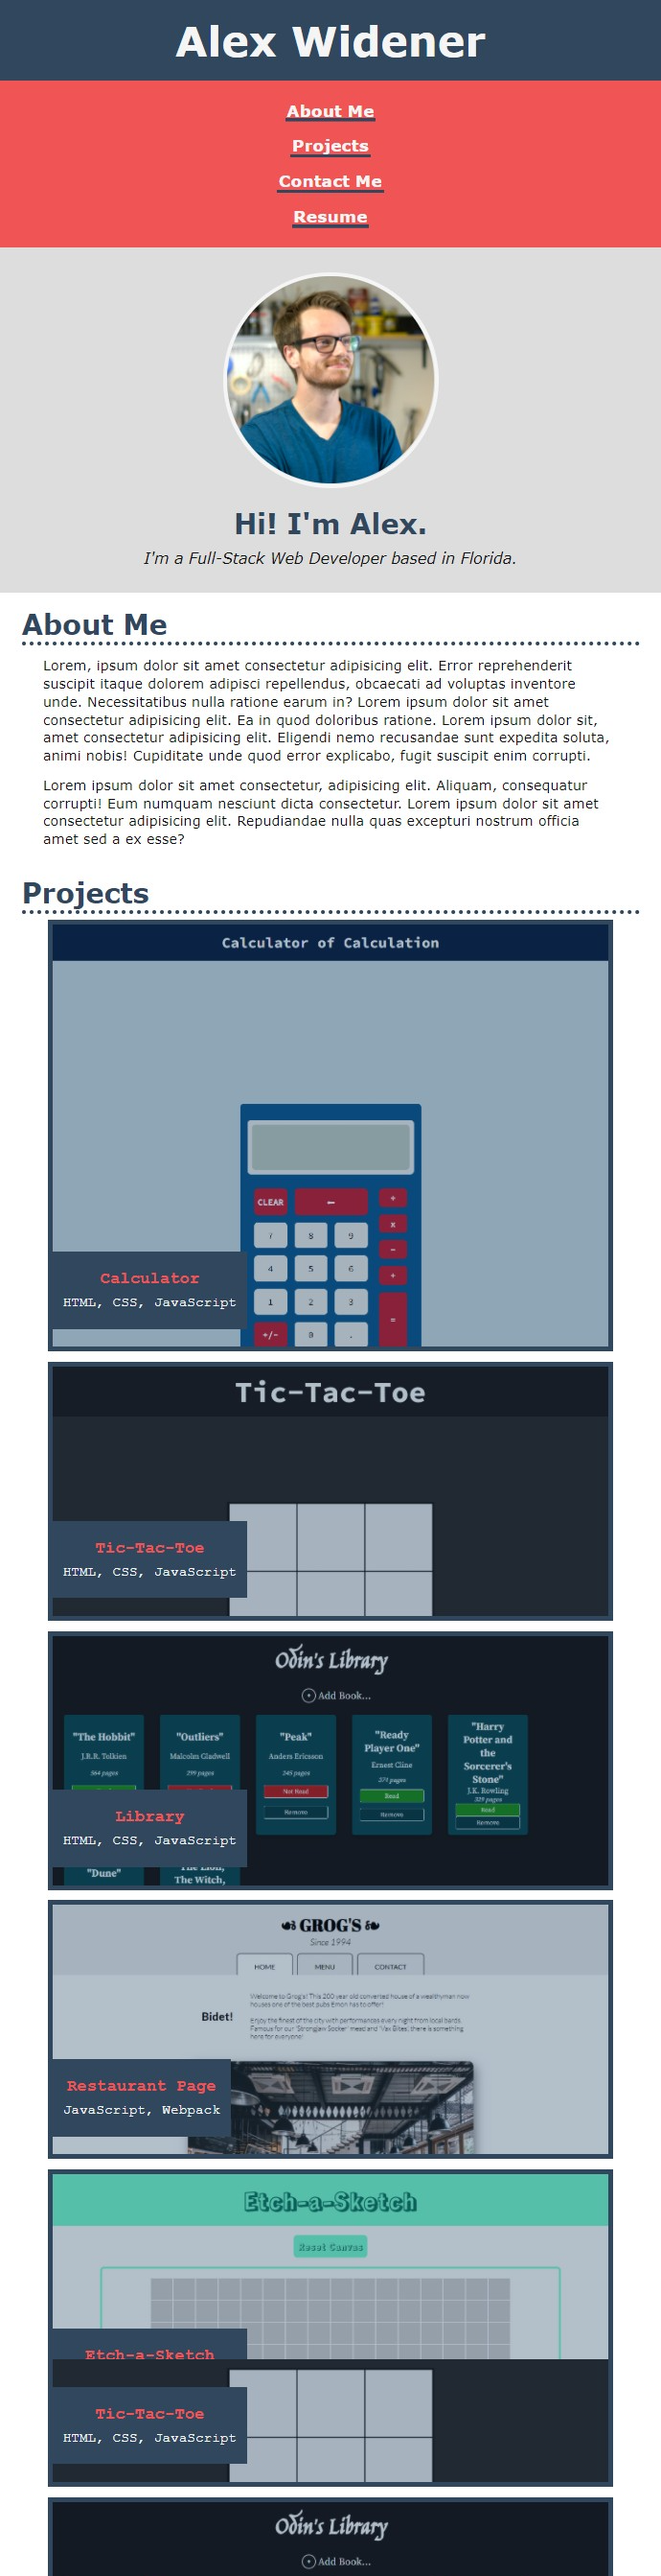
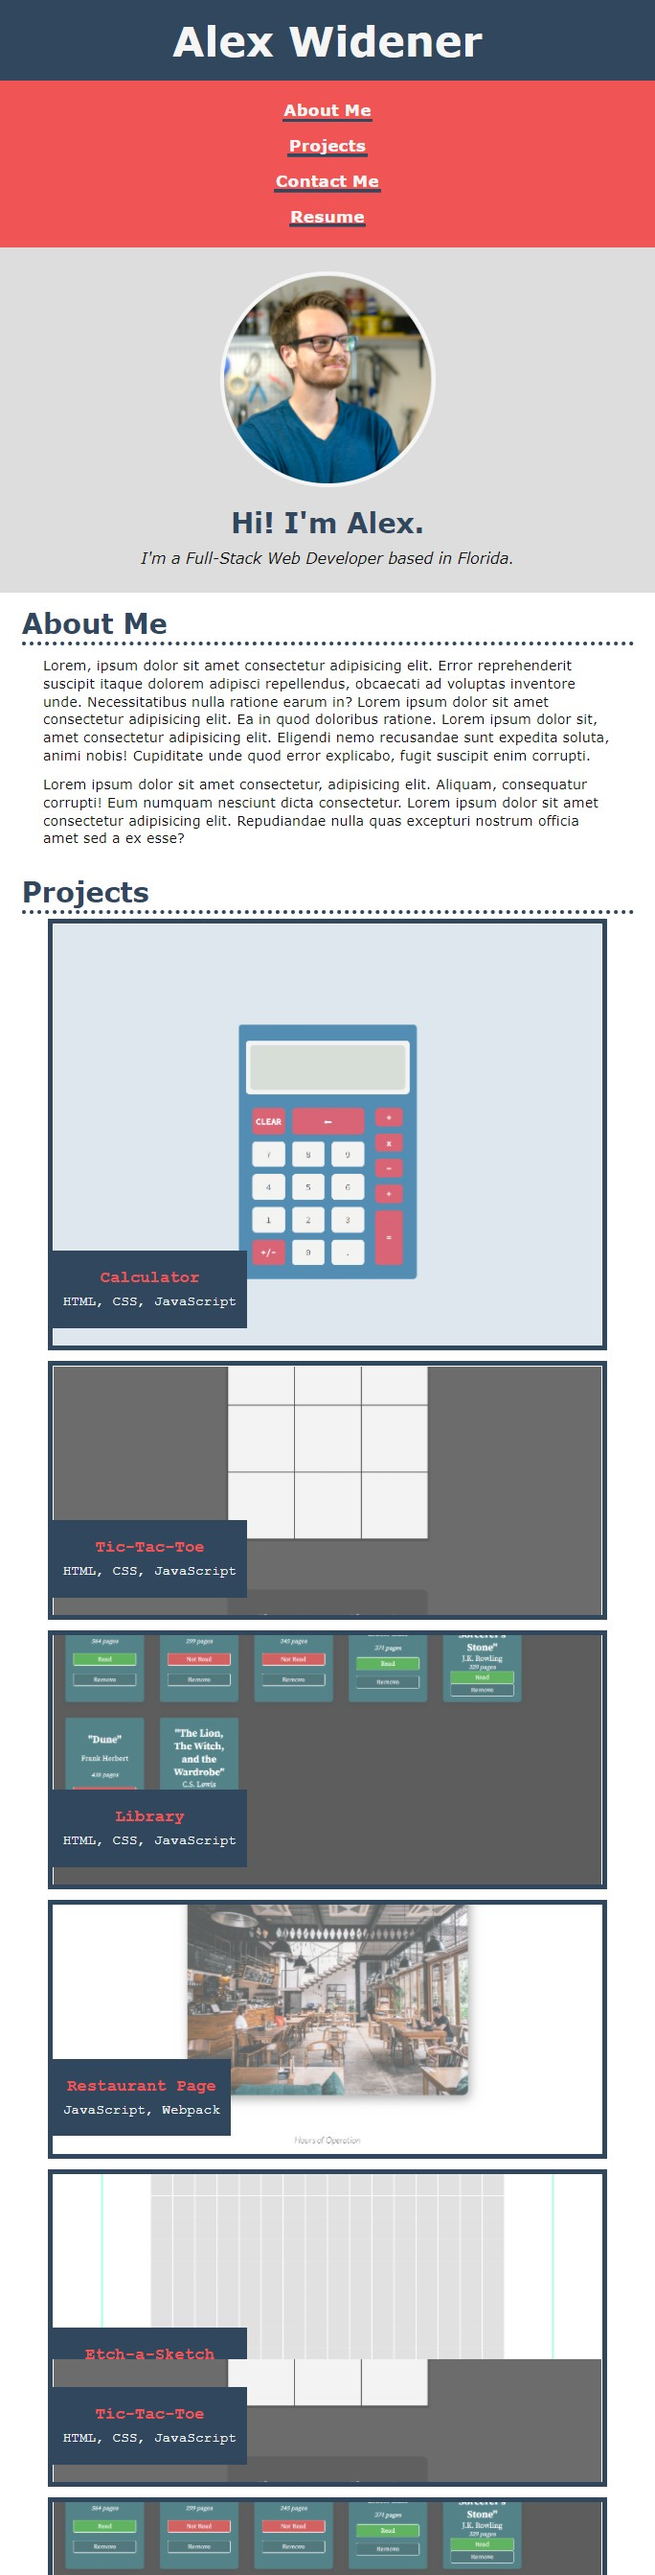
fixed links on images

diff --git a/index.html b/index.html
@@ -1,5 +1,6 @@
 <!DOCTYPE html>
 <html lang="en">
+
 <head>
     <meta charset="UTF-8">
     <meta http-equiv="X-UA-Compatible" content="IE=edge">
@@ -7,6 +8,10 @@
     <link rel="stylesheet" href="https://cdnjs.cloudflare.com/ajax/libs/font-awesome/4.7.0/css/font-awesome.min.css">
     <link rel="stylesheet" href="./assets/css/reset.css">
     <link rel="stylesheet" href="./assets/css/style.css">
+    <link rel="apple-touch-icon" sizes="180x180" href="./assets/favicon/apple-touch-icon.png">
+    <link rel="icon" type="image/png" sizes="32x32" href="./assets/favicon/favicon-32x32.png">
+    <link rel="icon" type="image/png" sizes="16x16" href="./assets/favicon/favicon-16x16.png">
+    <link rel="manifest" href="/site.webmanifest">
     <title>Alex Widener Portfolio</title>
 </head>
 
@@ -42,75 +47,110 @@
         <section id="about-me" class="section">
             <h2 class="section-title">About Me</h2>
             <div class="section-content">
-                <p>Lorem, ipsum dolor sit amet consectetur adipisicing elit. Error reprehenderit suscipit itaque dolorem adipisci repellendus, obcaecati ad voluptas inventore unde. Necessitatibus nulla ratione earum in? Lorem ipsum dolor sit amet consectetur adipisicing elit. Ea in quod doloribus ratione. Lorem ipsum dolor sit, amet consectetur adipisicing elit. Eligendi nemo recusandae sunt expedita soluta, animi nobis! Cupiditate unde quod error explicabo, fugit suscipit enim corrupti.</p>
-                <p>Lorem ipsum dolor sit amet consectetur, adipisicing elit. Aliquam, consequatur corrupti! Eum numquam nesciunt dicta consectetur. Lorem ipsum dolor sit amet consectetur adipisicing elit. Repudiandae nulla quas excepturi nostrum officia amet sed a ex esse?</p>
+                <p>Lorem, ipsum dolor sit amet consectetur adipisicing elit. Error reprehenderit suscipit itaque dolorem
+                    adipisci repellendus, obcaecati ad voluptas inventore unde. Necessitatibus nulla ratione earum in?
+                    Lorem ipsum dolor sit amet consectetur adipisicing elit. Ea in quod doloribus ratione. Lorem ipsum
+                    dolor sit, amet consectetur adipisicing elit. Eligendi nemo recusandae sunt expedita soluta, animi
+                    nobis! Cupiditate unde quod error explicabo, fugit suscipit enim corrupti.</p>
+                <p>Lorem ipsum dolor sit amet consectetur, adipisicing elit. Aliquam, consequatur corrupti! Eum numquam
+                    nesciunt dicta consectetur. Lorem ipsum dolor sit amet consectetur adipisicing elit. Repudiandae
+                    nulla quas excepturi nostrum officia amet sed a ex esse?</p>
             </div>
 
         </section>
-        
+
         <!-- PROJECTS -->
         <section id="projects" class="section">
             <h2 class="section-title">Projects</h2>
 
             <div class="section-content">
 
-                    <div id="calculator" class="card-large">
-                        <!-- <img class="card-image" src="/assets/images/calculator-preview.png" alt="a preview of a calculator project"> -->
-                        <div class="card-content">
-                            <h3 class="card-title"><a href="https://awidener3.github.io/basic-calculator/" target="_blank" rel="noopener noreferrer">Calculator</a></h3>
-                            <p class="card-subtitle">HTML, CSS, JavaScript</p>
-                        </div>
+                <div id="calculator" class="card-large">
+                    <a href="https://awidener3.github.io/basic-calculator/" target="_blank" rel="noopener noreferrer">
+                        <img class="card-image" src="/assets/images/calculator-preview.png"
+                            alt="a preview of a calculator project">
+                    </a>
+                    <div class="card-content">
+                        <h3 class="card-title"><a href="https://awidener3.github.io/basic-calculator/" target="_blank"
+                                rel="noopener noreferrer">Calculator</a></h3>
+                        <p class="card-subtitle">HTML, CSS, JavaScript</p>
                     </div>
+                </div>
 
                 <div id="tic-tac-toe" class="card-small">
+                    <a href="https://awidener3.github.io/tic-tac-toe/" target="_blank" rel="noopener noreferrer">
+                        <img class="card-image" src="/assets/images/tic-tac-toe-preview.png"
+                            alt="a preview of a tic-tac-toe project">
+                    </a>
                     <div class="card-content">
-                        <h3 class="card-title"><a href="https://awidener3.github.io/tic-tac-toe/" target="_blank" rel="noopener noreferrer">Tic-Tac-Toe</a></h3>
+                        <h3 class="card-title"><a href="https://awidener3.github.io/tic-tac-toe/" target="_blank"
+                                rel="noopener noreferrer">Tic-Tac-Toe</a></h3>
                         <p class="card-subtitle">HTML, CSS, JavaScript</p>
                     </div>
                 </div>
 
                 <div id="library" class="card-small">
+                    <a href="https://awidener3.github.io/odin-library/" target="_blank" rel="noopener noreferrer">
+                        <img class="card-image" src="/assets/images/library-preview.png"
+                            alt="a preview of a library project">
+                    </a>
                     <div class="card-content">
-                        <h3 class="card-title"><a href="https://awidener3.github.io/library/" target="_blank" rel="noopener noreferrer">Library</a></h3>
+                        <h3 class="card-title"><a href="https://awidener3.github.io/odin-library/" target="_blank"
+                                rel="noopener noreferrer">Library</a></h3>
                         <p class="card-subtitle">HTML, CSS, JavaScript</p>
                     </div>
                 </div>
 
                 <div id="restaurant-page" class="card-small">
+                    <a href="https://awidener3.github.io/restaurant-page/" target="_blank" rel="noopener noreferrer">
+                        <img class="card-image" src="/assets/images/restaurant-page-preview.png"
+                            alt="a preview of a restaurant website project">
+                    </a>
                     <div class="card-content">
-                        <h3 class="card-title"><a href="https://awidener3.github.io/restaurant-page/" target="_blank" rel="noopener noreferrer">Restaurant Page</a></h3>
+                        <h3 class="card-title"><a href="https://awidener3.github.io/restaurant-page/" target="_blank"
+                                rel="noopener noreferrer">Restaurant Page</a></h3>
                         <p class="card-subtitle">JavaScript, Webpack</p>
                     </div>
                 </div>
 
                 <div id="etch-a-sketch" class="card-small">
+                    <a href="https://awidener3.github.io/etch-a-sketch/" target="_blank" rel="noopener noreferrer">
+                        <img class="card-image" src="/assets/images/etch-a-sketch-preview.png"
+                            alt="a preview of a etch-a-sketch project">
+                    </a>
                     <div class="card-content">
-                        <h3 class="card-title"><a href="https://awidener3.github.io/etch-a-sketch/" target="_blank" rel="noopener noreferrer">Etch-a-Sketch</a></h3>
+                        <h3 class="card-title"><a href="https://awidener3.github.io/etch-a-sketch/" target="_blank"
+                                rel="noopener noreferrer">Etch-a-Sketch</a></h3>
                         <p class="card-subtitle">HTML, CSS, JavaScript</p>
                     </div>
                 </div>
             </div>
-                
+
         </section>
-            
+
         <!-- CONTACT -->
         <section id="contact" class="section">
             <h2 class="section-title">Contact Me</h2>
             <div class="section-content">
-                <a href="https://www.github.com/awidener3" class="contact-link fa fa-github fa-3x" target="_blank" rel="noopener noreferrer"></a>
-                <a href="https://twitter.com/awidener3" class="contact-link fa fa-twitter fa-3x" target="_blank" rel="noopener noreferrer"></a>
-                <a href="https://www.linkedin.com/in/alex-widener/" class="contact-link fa fa-linkedin fa-3x" target="_blank" rel="noopener noreferrer"></a>
+                <a href="https://www.github.com/awidener3" class="contact-link fa fa-github fa-3x" target="_blank"
+                    rel="noopener noreferrer"></a>
+                <a href="https://twitter.com/awidener3" class="contact-link fa fa-twitter fa-3x" target="_blank"
+                    rel="noopener noreferrer"></a>
+                <a href="https://www.linkedin.com/in/alex-widener/" class="contact-link fa fa-linkedin fa-3x"
+                    target="_blank" rel="noopener noreferrer"></a>
             </div>
 
         </section>
 
     </main>
-    
+
     <!-- FOOTER -->
-    
+
     <footer>
-        <a href="https://www.github.com/awidener3" target="_blank" rel="noopener noreferrer"><img src="./assets/images/GitHub-Mark-Light-64px.png" alt="GitHub logo"></a>
+        <a href="https://www.github.com/awidener3" target="_blank" rel="noopener noreferrer"><img
+                src="./assets/images/GitHub-Mark-Light-64px.png" alt="GitHub logo"></a>
     </footer>
 
 </body>
+
 </html>

diff --git a/assets/css/style.css b/assets/css/style.css
@@ -167,9 +167,7 @@ section {
 .card-large, .card-small {
     border: 6px solid var(--blue);
     position: relative;
-    transition: border 0.2s, transform 0.2s, background-color 0.2s;
-    background-color: #30475E88;
-    background-blend-mode: soft-light;
+    transition: border 0.2s, transform 0.2s;
 }
 
 .card-large:hover,
@@ -192,6 +190,11 @@ section {
     color: var(--white);
 }
 
+.card-large:hover .card-image,
+.card-small:hover .card-image {
+    opacity: 1;
+}
+
 .card-large {
     height: 500px;
     width: 300px;
@@ -210,7 +213,6 @@ section {
     background-color: var(--blue);
     padding: 20px 12px;
 }
-
 
 .card-content h3 a {
     color: var(--red);
@@ -232,6 +234,14 @@ section {
     color: var(--red);
     text-align: center;
     font-size: 1.2rem;
+}
+
+.card-image {
+    width: 100%;
+    height: 100%;
+    object-fit: cover;
+    z-index: -1;
+    opacity: 0.7;
 }
 
 /* CONTACT */
@@ -278,35 +288,6 @@ footer img:hover {
     transform: rotate(360deg);
 }
 
-#calculator, 
-#tic-tac-toe, 
-#library, 
-#restaurant-page,
-#etch-a-sketch {
-    background-position: center;
-    background-size: cover;
-}
-
-#calculator {
-    background-image: url("/assets/images/calculator-preview.png");
-}
-
-#tic-tac-toe {
-    background-image: url("/assets/images/tic-tac-toe-preview.png");
-}
-
-#library {
-    background-image: url("/assets/images/library-preview.png");
-}
-
-#restaurant-page {
-    background-image: url("/assets/images/restaurant-page-preview.png");
-}
-
-#etch-a-sketch {
-    background-image: url("/assets/images/etch-a-sketch-preview.png");
-}
-
 /* MEDIA QUERIES */
 
 /* Tablets */
@@ -347,9 +328,6 @@ footer img:hover {
     }
     .card-small, .card-large {
         flex: 1 1 80%;
-    }
-    #calculator, #tic-tac-toe, #library, #restaurant-page, #etch-a-sketch {
-        background-position: top;
     }
 }
 
